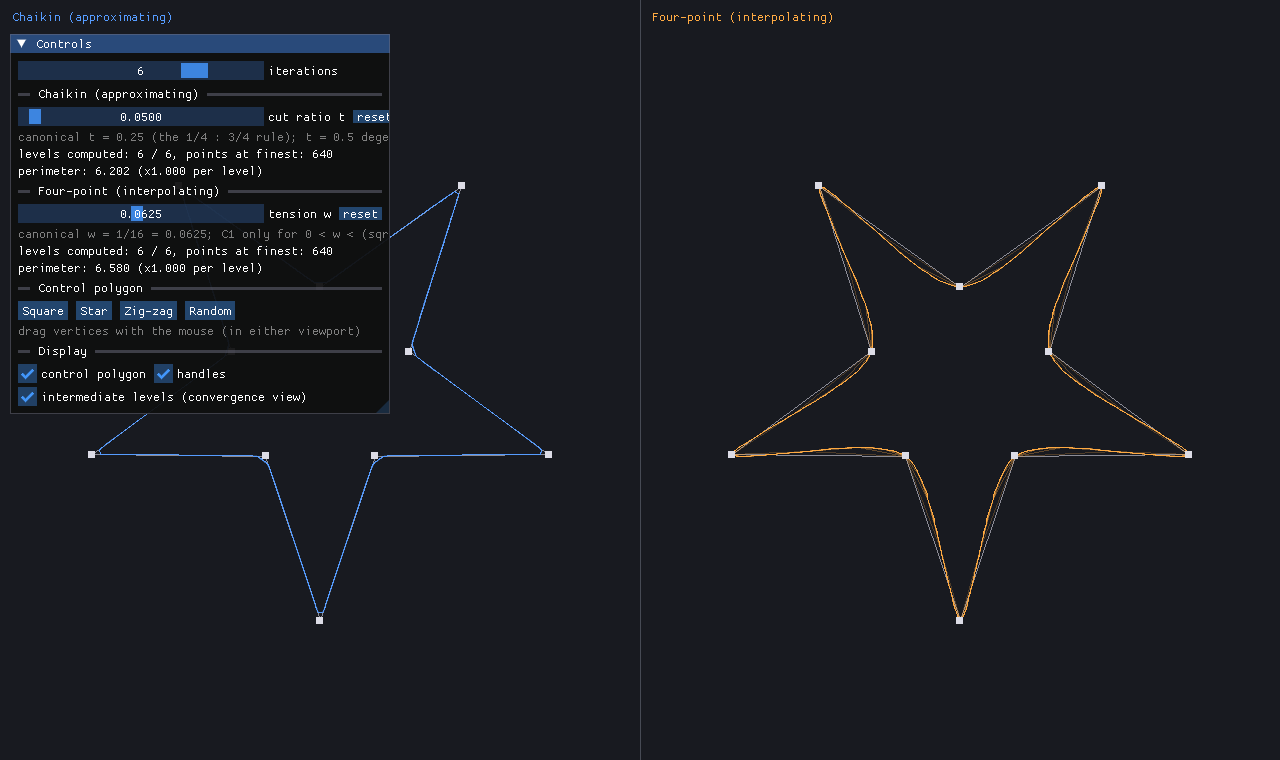
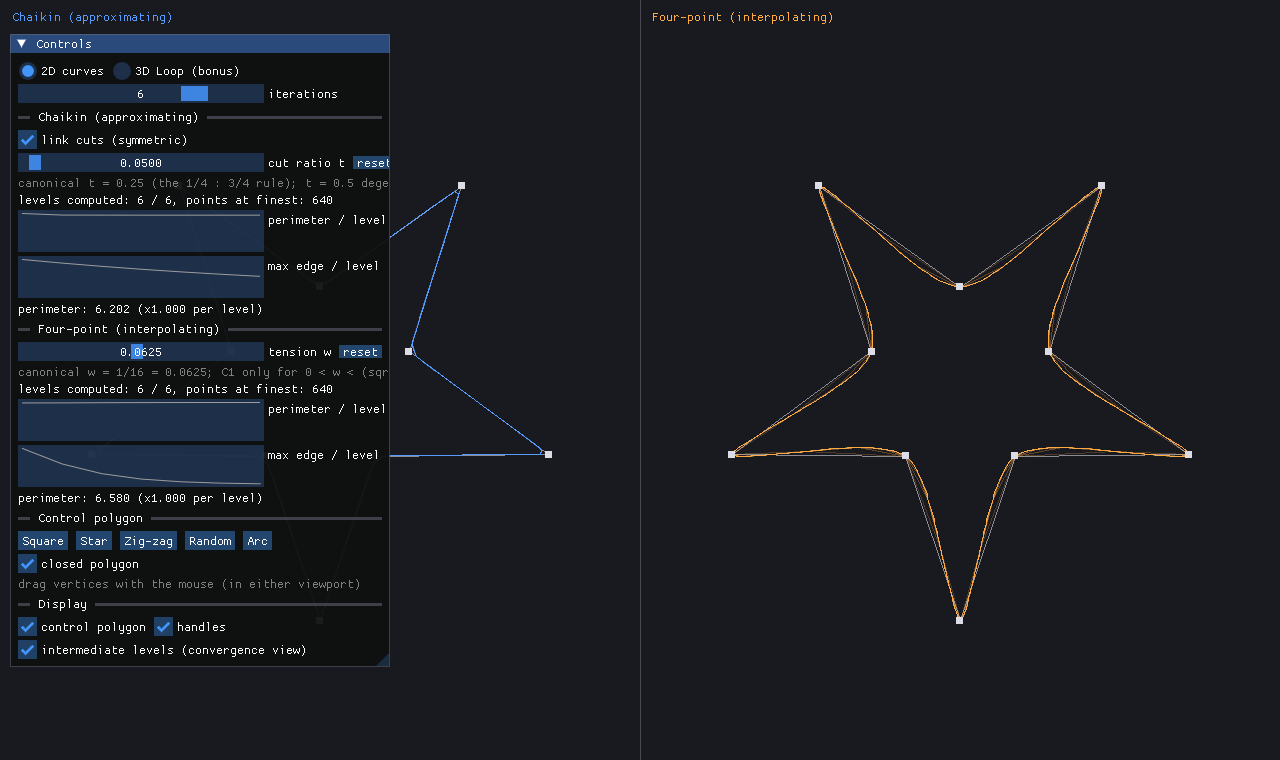
Pre-submission audit: refresh figures and documentation accuracy
All seven remaining report figures regenerated so every screenshot
shows the current panel (convergence plots, Arc preset, link-cuts and
closed-polygon toggles). Fixes stale text found in the audit: the
report's conclusion still listed open polylines and asymmetric Chaikin
as out of scope, the preset count and testing sections were outdated,
and PLAN's layout tree lacked an as-built note. README now front-loads
why subdivision matters and what the demo teaches. CI checkout action
bumped to v5 (Node 20 deprecation annotation).

diff --git a/docs/REPORT.md b/docs/REPORT.md
@@ -36,8 +36,8 @@ All MUST-HAVE features from [PRD.md](../PRD.md):
 - **0–8 iterations** with a ghosted *convergence view* — intermediate levels
   fade in toward the finest curve, visualizing the polygon's march toward the
   limit.
-- **Interactive editing**: draggable vertices (in either viewport) and four
-  shape presets (square, star, zig-zag, seeded random).
+- **Interactive editing**: draggable vertices (in either viewport) and five
+  shape presets (square, star, zig-zag, seeded random, open arc).
 - **Convergence diagnostics**: per-scheme perimeter statistics with a
   "not converging" warning, plus a hard guard against numeric blow-up
   (section 5 explains why *two* mechanisms are needed).
@@ -330,12 +330,17 @@ retention in `refine()`, a **hand-computed Chaikin step** on the square
 (t = 1/4 → cuts at ±0.35), point-count doubling, the degenerate t = 1/2
 case, a **hand-computed four-point insertion** (w = 1/16 → bulge to
 (0, −0.875)), the interpolation property across multiple levels, endpoint
-preservation for open polylines, perimeter measurement, and the divergence
-guard (an artificial exploding scheme must trip it and every retained level
-must stay renderable). The 3D bonus adds combinatorial checks on Loop
-subdivision: vertex/edge/triangle counts and the Euler characteristic across
-two rounds, plus the approximating property (the surface never leaves the
-control cube).
+preservation for open polylines, a hand-computed **asymmetric Chaikin** step
+plus a linked-equals-symmetric equivalence check, perimeter and max-edge
+measurement (the quantities behind the convergence plots), **degenerate
+inputs** (coincident and collinear vertices must stay finite through 8
+rounds of both schemes), and the divergence guard (an artificial exploding
+scheme must trip it and every retained level must stay renderable). The 3D
+bonus adds combinatorial checks on Loop subdivision: vertex/edge/triangle
+counts and the Euler characteristic across two rounds, plus the
+approximating property (the surface never leaves the control cube). A
+GitHub Actions workflow builds the project and runs the full suite on every
+push.
 
 ## 9. Challenges encountered
 
@@ -368,6 +373,7 @@ prices of convergence.
 
 The 3D bonus closes the loop, so to speak: the same one-step-rule idea that
 smooths a polygon into a B-spline rounds a cube toward a smooth surface,
-extraordinary vertices and all. Natural extensions (kept out of scope):
-open-polyline editing in the UI, asymmetric Chaikin cuts, and shaded (rather
-than wireframe) rendering of the subdivided surface.
+extraordinary vertices and all. Natural extensions (consciously kept out of
+scope; see PRD): inserting/deleting control vertices with the mouse, pan and
+zoom of the canvas, and shaded (rather than wireframe) rendering of the
+subdivided surface.

diff --git a/README.md b/README.md
@@ -7,6 +7,15 @@ A C++ desktop application that visualizes curve subdivision schemes —
 (interpolating) — side by side on a shared, editable control polygon, with
 free control over the subdivision weights and iteration count.
 
+**Why subdivision?** A rule a few lines long, applied repeatedly to a coarse
+polygon, converges to a smooth limit curve — the idea behind B-splines and
+the subdivision surfaces used throughout film and CAD. This app demonstrates
+the two fundamental flavors of that idea (approximating vs. interpolating)
+and, by letting you push the weights away from their canonical values, shows
+*live* where and why convergence breaks down into roughness, fractals, or
+divergence — the canonical weights are not conventions but the exact prices
+of a smooth limit.
+
 ![Chaikin vs four-point on the star preset](docs/img/hero.png)
 
 Computer Graphics course mini-project (solo). Planning documents:
@@ -68,8 +77,10 @@ ctest --test-dir build
 ```
 
 Unit tests cover the math core: vector ops, presets, hand-computed
-subdivision steps for both schemes, the interpolation property, perimeter
-measurement, and the divergence guard.
+subdivision steps for both schemes (symmetric and asymmetric), the
+interpolation property, perimeter and max-edge measurement, degenerate
+inputs, the divergence guard, and the Loop-subdivision mesh combinatorics.
+GitHub Actions runs the suite on every push (badge above).
 
 ## Controls
 
@@ -116,4 +127,5 @@ src/              application: main loop, app state, ImGui panel, canvas,
 tests/            assert-based tests, wired to CTest
 external/imgui/   vendored Dear ImGui (pinned v1.92.8, MIT)
 docs/             course report and screenshots
+.github/          CI workflow (build + tests on every push)
 ```

diff --git a/PLAN.md b/PLAN.md
@@ -52,6 +52,11 @@ Design rule: **`include/subdiv/` is pure math** — no SDL, no ImGui. Only
 `src/` touches the libraries. This keeps the core unit-testable and cleanly
 separated, and would let the 3D stretch goal reuse the same pattern.
 
+*As-built additions to this tree*: `src/input.{hpp,cpp}` (vertex dragging,
+split out during Phase 5), `include/subdiv/vec3.hpp` +
+`include/subdiv/trimesh.hpp` + `src/mesh_view.{hpp,cpp}` (3D bonus), and
+`.github/workflows/ci.yml` (CI). The final layout is in REPORT.md §3.
+
 ## 3. Data structures
 
 ```cpp
